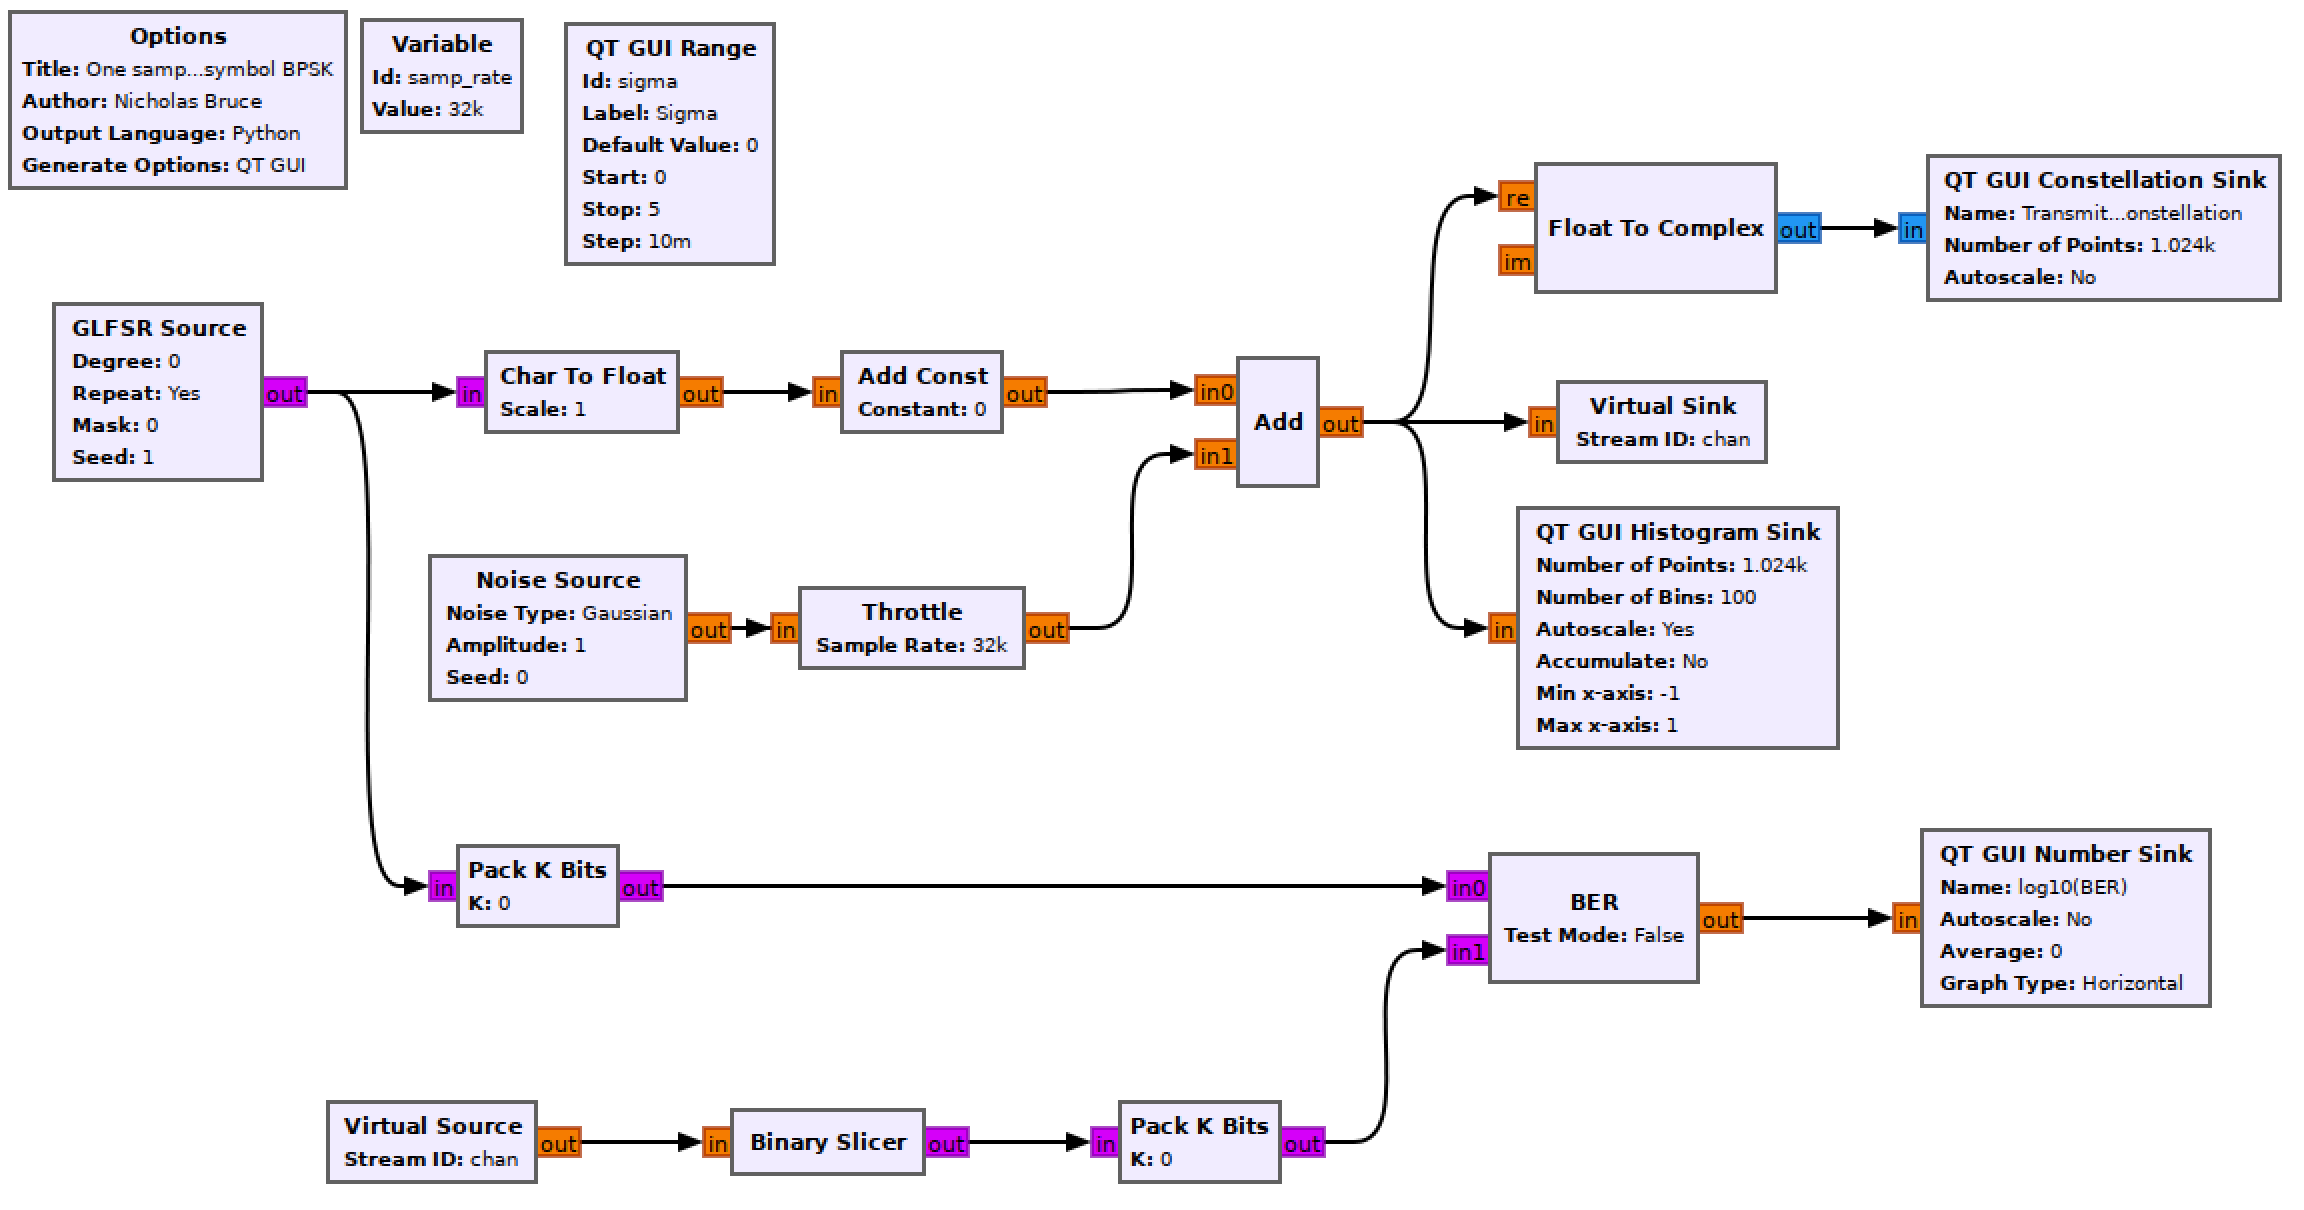
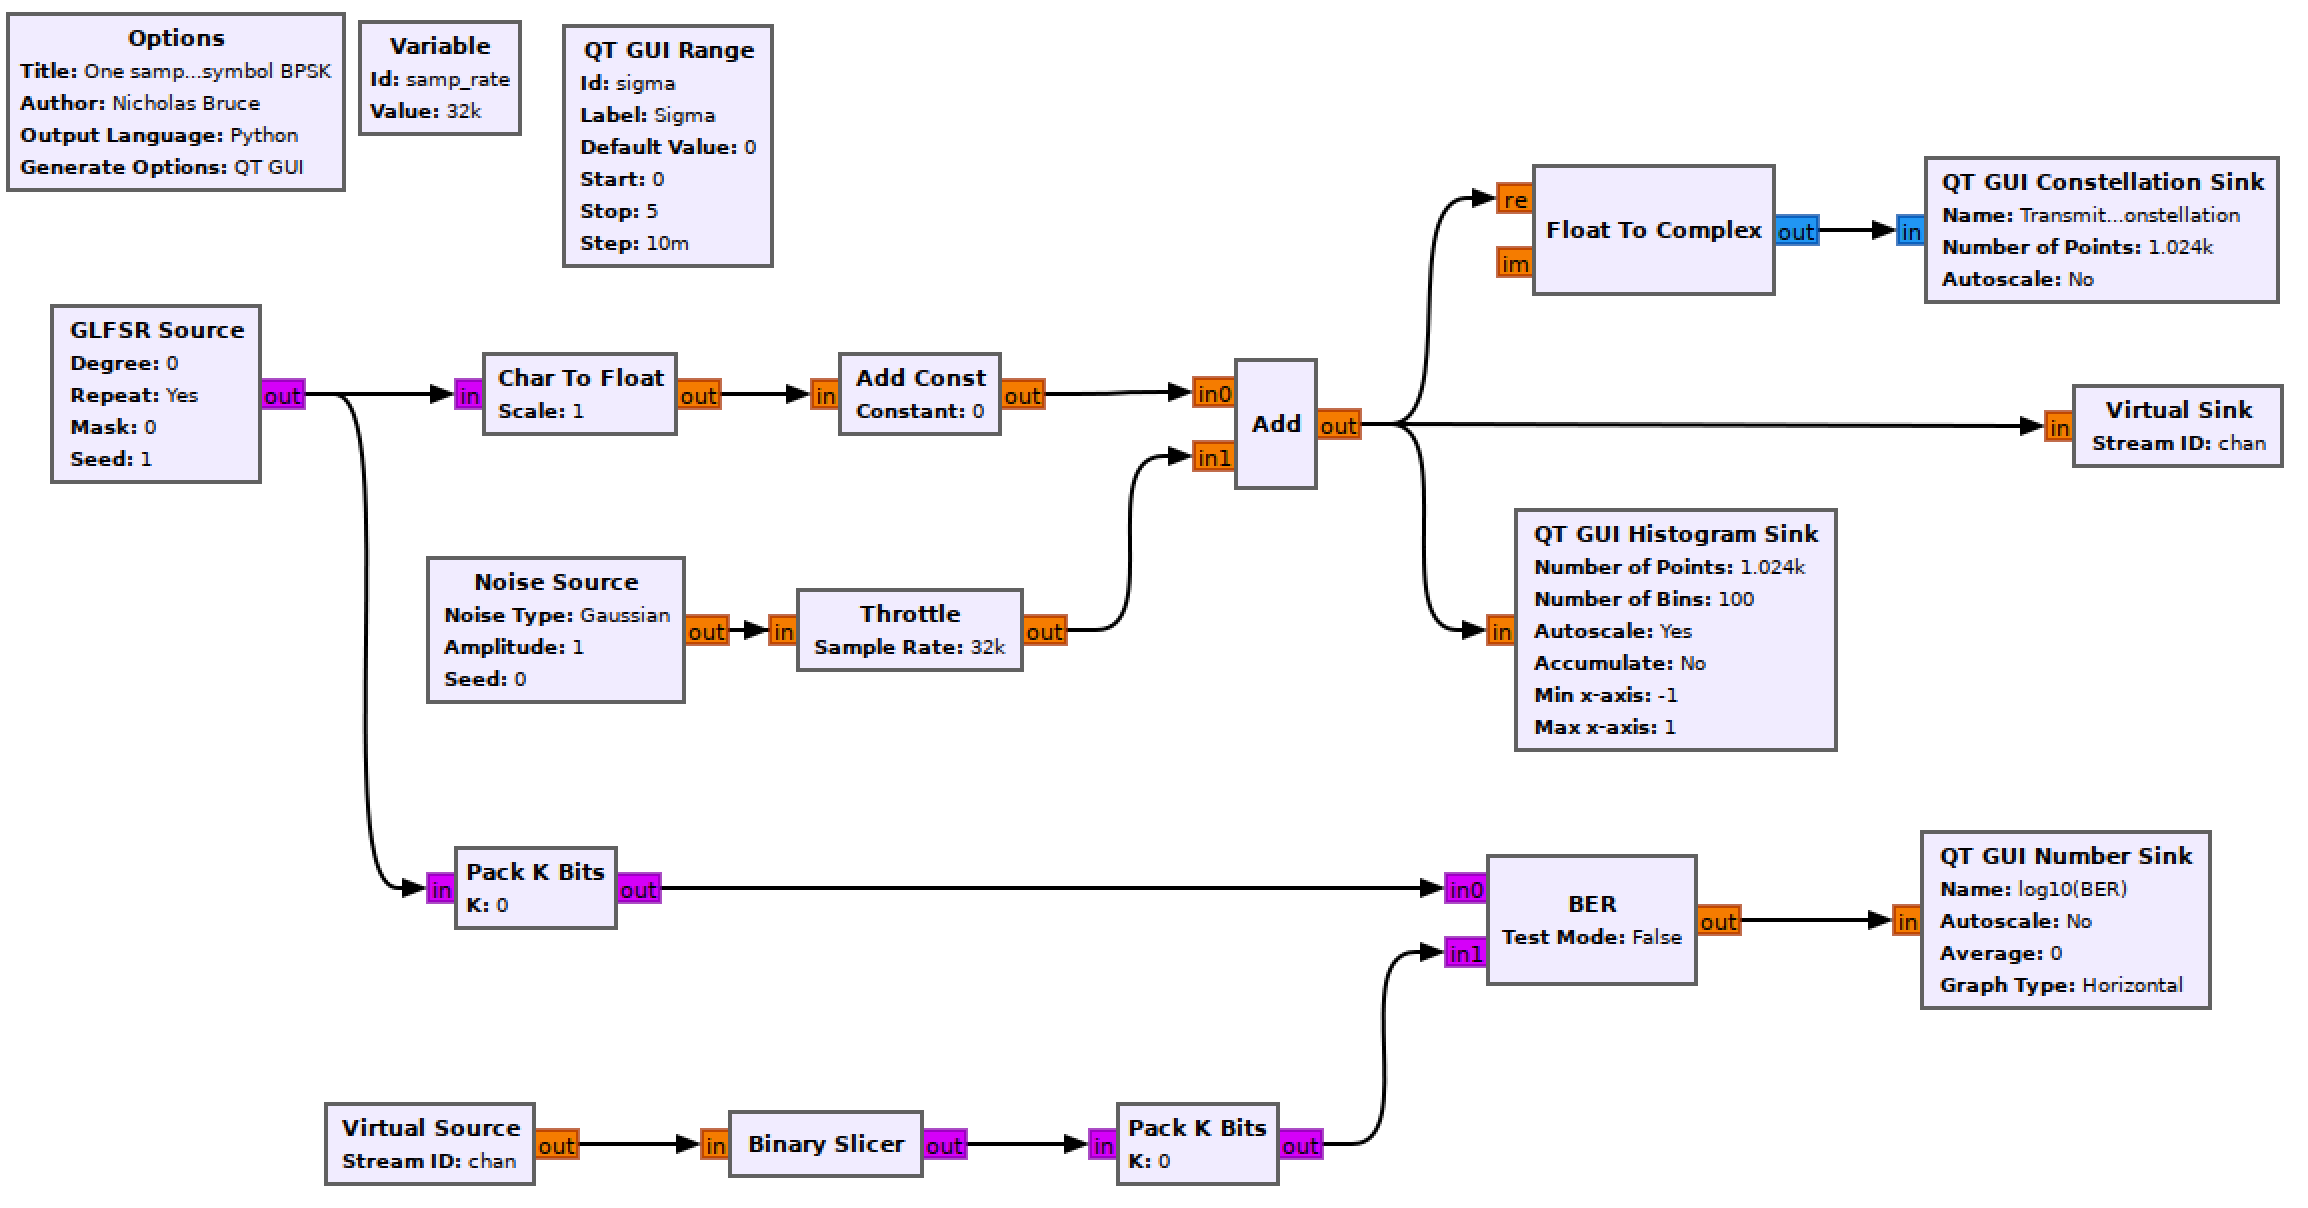
I think wrapped up Lab 1

diff --git a/_ece450/lab1/noise-bpsk-ber.md b/_ece450/lab1/noise-bpsk-ber.md
@@ -25,84 +25,45 @@ For this section, the deliverables are:
 
 ## Building the flowgraph
 
-Construct the following GRC flowgraph.
+Edit the GRC flowgraph from the last part of the lab. Remove the histogram and constellation sink blocks as well as the *QT GUI Range* block.
 
-  ![one-sps-bpsk-blank-flowgraph.png](figures/one-sps-bpsk-blank-flowgraph.png)<br>
-  __*Blank one sample per symbol BPSK flowgraph*__
+Add a *Variable* block and an *Import* block.
 
-### GLFSR Source
+### Variables
 
-This block outputs a pseudo-random bit stream using a shift register as described in the [theory section]({{ site.baseurl }}{% link _ece450/lab1/theory.md %}). Set the Degree of the shift register to 20 (this is the LFSR's $$M$$ value). Set it to repeat.
+Create a variable called `eb_n0_db`. Set it's value to 0.
 
-### Char To Float & Add Const
+### Import
 
-The output of the GLFSR block is a series of 1's and 0's. In order to build a bipolar BPSK system the 0s must become -1s. This can be done using the following equation
-
-$$
-y[n] = 2x[n]-1
-$$
-
-where $$y[n]$$ is the output stream made up of -1s and 1s and $$x[n]$$ is the input stream of 0s and 1s.
-
-Setting the *Scale* parameter of the *Char To Float* block to 0.5 and the *Constant* parameter of the *Add Const* block to -1. You can observe the output of the *Add Const* block using a *QT GUI Constellation Sink* to see that this is now a BPSK signal.
+The argument is `import math`. This will load the [python math library](https://docs.python.org/3/library/math.html). To call the library functions you would precede them with `math`. For example, to take the square root of the number 5 you would write `math.sqrt(5)` wherever you wanted the result.
 
 ### Noise Source
 
-The *Amplitude* variable sets the noise standard deviation, $$\sigma$$. The noise power of pure White Gaussian noise is the variance of the distribution ($$\sigma^2$$) (text section 3.1.3.4). This means you can directly control the noise power by setting this value.
+Remember that the *Amplitude* parameter sets the noise standard deviation, $$\sigma$$ and that the noise power of pure White Gaussian noise is the variance of the distribution ($$\sigma^2$$) (text section 3.1.3.4). Also recall from the [theory section]({{ site.baseurl }}{% link _ece450/lab1/theory.md %}) that $$\frac{E_b}{N_0}$$ = \frac{SNR}{2}$$.
 
-Set the noise *Amplitude* to `sigma`.
+Consider as well that $$\frac{S}{N}=\frac{a_i^2}{\sigma_0^2}$$ (text eqn. 3.45) where $$a_i^2$$ is the signal power and $$\sigma_0^2$$ is the noise power. Combining these two and solving for $$\sigma$$ yields
 
-### QT GUI Range
+$$
+\sigma = \sqrt{\frac{a_i^2}{2*\frac{E_b}{N_0}}}
+$$
 
-This will be used to control the noise power added to the bitstream. Ensure it is labelled appropriately and the __*id*__ is `sigma`. The values should range from 0 (default) to 1 in small increments (use your discretion, and remember you can always change it later).
+where it's important to remember that $$\frac{E_b}{N_0}$$ is in linear units.
 
-### Throttle
+Set the *Amplitude* parameter to an expression equivalent to the this function using the `eb_n0_db` variable you set earlier. You will need to:
 
-When there is no hardware block in a flowgraph (SDR, file reading/writing, network interface) the CPU will run the flowgraph as fast as it can. A throttle block should only be used in the absence of a real rate-limiting block (like here).
+- convert `eb_n0_db` to linear terms,
+- use the `math` library. In particular you will need `math.sqrt()` and `math.pow()` (unless you prefer the python `**` notation),
+- know the power of the signal (it's a binary stream of 1s and -1s)
 
-### QT GUI Constellation Sink & Float To Complex
-
-To validate that the signal is BPSK and to observe the effect of adding noise to it, view its constellation. The constellation only takes a complex input so convert the input.
-
-### QT GUI Histogram Sink
-
-By viewing the histogram of the noisy bits one can intuitively understand how bit errors occur.
-
-- Increase the *Number of Points* to 4096,
-- increase the *Number of Bins* to 1000,
-- set the x-axis limits to [-2, 2].
-
-### Virtual Sink & Virtual source
-
-These blocks can be considered as connected by an "invisible" line on the flowgraph. They can be used for more complex tasks, but here they just keep the flowgraph from being criss-crossed with lines. They are also used to simulate a "transmitter" and "receiver". In this case the *Virtual Sink* transmits the noisy baseband waveform while the *Virtual Source* receives it.
-
-Ensure that the *Stream ID* matches between the two.
-
-### Binary Slicer
-
-This block outputs a 0 for every negative input and a 1 for every positive output.
-
-### Pack K Bits
-
-Set *K* to 8. This is the packet byte size that the later *BER* block requires.
-
-### BER
-
-This computes the error between the two inputs. It outputs to log of the BER, so if it outputs a value of -2, the BER is $$10^-2=0.01$$.
-
-Set *Test Mode* to False, which will mean the block immediately starts outputting results (as opposed to waiting for the error rate to stabilize first). While *Test Mode* is False, the other parameters don't do anything, so you can leave them as they are.
-
-### QT GUI Number Sink
-
-This will draw the output of the BER block on a number line. Set the maximum to 0 (since $$10^0=1$$ meaning that every bit is wrong) and the minumum to -7.
+You can check that you have the correct formula by plugging in some known numbers. For example when the `eb_n0_db` variable is set to 0, $$\sigma$$ should be $$\frac{1}{\sqrt{2}}$$.
 
 ## Run the experiment
 
 1. Run the flowgraph.
-2. Observe the histogram and constellation plots as you increase the sigma slider from 0 to 1 (which is equivalent to changing the noise power ($$\sigma^2$$) from 0 to 1 as well).
-3. Notice that the BER number sink value _increases_ while $$\sigma$$ increases. As the two bits in the histogram overlap, more bit errors occur.
-4. Find the $$\sigma$$ value at which point equally between the gaussian distributions (at 0) is completely flat (you can change histogram parameters and the granularity of the *QT GUI Range* widget to help with this). What is the BER at this point?
+2. For `eb_n0_db` values of 0, 1, ..., 10 record the BER.
 
-{% include alert.html title="Deliverable question 1" class="info" content="What is the significants of the $$\sigma$$ value at which point the gaussians are indistinguishable?"%}
+{% include alert.html title="Note" content="Note you will have to kill the flowgraph each time you desire a new `eb_n0_db` value. Changing it during runtime with a *QT GUI Range* or similar will result in large delays for the BER to stabilize." %}
+
+{% include alert.html title="Deliverable question 3" class="info" content="If you made a BER vs Eb/N0 curve and plotted it on top of a BER vs SNR curve (a plot with two x-axes), would they be the same or would they be offset? If offset, in which direction and by how much? __*This exercise can be done intuitively without plotting the curves or doing any calculations.*__"%}
 
 Review the [section deliverables](#part-3-deliverables) before moving on.

diff --git a/_ece450/lab1/calculating-ber.md b/_ece450/lab1/calculating-ber.md
@@ -1,0 +1,66 @@
+---
+layout: labitem
+title: Part 4 - Calculating BER
+
+permalink: /ece450/lab1/calculating-ber
+course: ece450
+prev: /ece450/lab1/noisy-bpsk-ber
+next: /ece450/lab1/conclusion
+---
+
+## Objectives
+
+You will use the values recorded for the baseband BPSK communication system to plot a $$BER-\frac{E_b}{N_0}$$ curve and compare it with theory.
+
+---
+
+## Part 5 deliverables
+
+For this section, the deliverables are:
+
+- the answer to two deliverable questions,
+- the code used to generate the BER curve (with the dataset hard coded into it),
+- the resulting BER curve as a .PNG image file.
+
+---
+
+## Generating a BER curve
+
+Using the values collected throughout this lab you can now generate a $$BER-\frac{E_b}{N_0}$$ curve.
+
+You can use a programming language of your choice, but python or matlab have some handy tools for this job built in.
+
+Plot three curves on the same axes:
+
+1. BER curve for the theoretical $$BER=\sqrt{2\frac{E_b}{N_0}}$$,
+2. BER curve using the collected BER and Eb/N0 values from earlier in this lab.
+
+### 1. Theory
+
+For generating a simulated curve of the theoretical $$BER-\frac{E_b}{N_0}$$ review [the theory section]({{ site.baseurl }}{% link _ece450/lab1/theory.md %}) of this lab.
+
+For the Q-function, Matlab ships with [`qfunc()`](https://www.mathworks.com/help/comm/ref/qfunc.html) while python has [`norm.sf()`](https://docs.scipy.org/doc/scipy-0.19.1/reference/generated/scipy.stats.norm.html) included in the scipy package.
+
+### 2. Collected BER and set Eb/N0 values
+
+You collected a dataset of BER values for Eb/N0 values of 0, 1, ..., 10 dB. While plotting these remember that the BER values collected from the number sink are log10(BER). So to obtain the BER you will need to raise your collected values, -X by realizing that $$BER = 10^{-X}$$.
+
+### Plotting details
+
+Now that you have the three curves, ensure that the plot has:
+
+- a log scale on the y-axis
+- a linear scale on the x-axis
+- appropriate axes titles
+- a legend (one entry for each of: "Theory", "Simulation")
+
+A sample of what the plot might look like is included below (with all the labelling elements removed).
+
+  ![BER-curve.png](figures/BER-curve.png)<br>
+  __*Sample BER curve*__
+
+{% include alert.html title="Deliverable question 4" class="info" content="Provide insight into your results. What does the BER curve tell you about your communication system?" %}
+
+{% include alert.html title="Deliverable question 5" class="info" content="Relate the BER curve to the histogram you generated earlier in this lab." %}
+
+Review the [section deliverables](#part-4-deliverables) beforing moving on.

diff --git a/_ece450/lab1/theory.md b/_ece450/lab1/theory.md
@@ -31,7 +31,15 @@ $$
 
 where $$SNR=\frac{S}{N}$$ (the signal to noise ratio), $$W$$ is the channel bandwidth and $$R$$ is the bit rate (all terms in the equation are linear). Hence $$\frac{E_b}{N_0}$$ is the signal to noise ratio normalized to the channel and the symbol rate. This can be intuitively understood when reorganized as $$SNR = \frac{E_b}{N_0}\frac{R}{W}$$ since the numerator is the total power of the received signal (energy-per-bit multiplied with the bit rate) while the denominator is the total noise power in the channel (noise power in 1 Hz multiplied with the number of Hz in the channel).
 
-It is shown in the text section 3.2.2 that for a binary signal in a gaussian noise channel, this can be further simplified to $$SNR_{MAX} = \frac{2E_b}{N_0}$$ (text eqn. 3.52).
+It is shown in the text section 3.2.2 that for a one-sample-per-symbol binary signal in a gaussian noise channel, the above equation 3.30 can be simplified to
+
+$$
+\frac{E_b}{N_0}$$ = \frac{SNR}{2}, \text{(rearranged text eqn. 3.52)},
+$$
+
+as $$W=\frac{f_s}{2}$$ and $$R=f_s$$.
+
+{% include alert.html title="Note" content="Notice that all of these equations are in linear units but that BER curves are presented with the $$\frac{E_b}{N_0}$$ values in decibels." %}
 
 We are interested in this because we want to know the probability of receiving the correct bit. Consider the following figure,
 
@@ -40,7 +48,7 @@ We are interested in this because we want to know the probability of receiving t
 
 At the entire symbol duration from $$a_1$$ to $$a_2$$ there is some probability in the tail of these gaussian distrubutions that the wrong signal is received. This area under the tail of a gaussian PDF (probability density function) is characterized by the Q-function (a.k.a. gaussian survival function, a.k.a. complementary error function, a.k.a. co-error function). See text section 3.2.1 for more on this, and text equation 3.4.4 for more on the Q-function.
 
-For BPSK the function relating BER with SNR is,
+For BPSK the function relating BER with $$\frac{E_b}{N_0}$$ is,
 
 $$
 BER = Q\left( \sqrt{2\frac{E_b}{N_0}} \right) \text{all linear terms}

diff --git a/_ece450/lab1/noisy-bpsk-histogram.md b/_ece450/lab1/noisy-bpsk-histogram.md
@@ -18,8 +18,7 @@ You will implement a communications system using baseband BPSK and generate a hi
 
 For this section, the deliverables are:
 
-- the answer to one deliverable question,
-- a dataset for later use in this lab.
+- the answer to two deliverable question,
 
 ---
 
@@ -100,9 +99,12 @@ This will draw the output of the BER block on a number line. Set the maximum to 
 
 1. Run the flowgraph.
 2. Observe the histogram and constellation plots as you increase the sigma slider from 0 to 1 (which is equivalent to changing the noise power ($$\sigma^2$$) from 0 to 1 as well).
-3. Notice that the BER number sink value _increases_ while $$\sigma$$ increases. As the two bits in the histogram overlap, more bit errors occur.
-4. Find the $$\sigma$$ value at which point equally between the gaussian distributions (at 0) is completely flat (you can change histogram parameters and the granularity of the *QT GUI Range* widget to help with this). What is the BER at this point?
+3. Observe the $$log_{10}(BER)$$ value output from the number sink while $$\sigma$$ increases. As the two bits in the histogram overlap, more bit errors occur.
+4. Find the $$\sigma$$ value at which point the gaussian distributions are completely indistinguishable (you can change histogram parameters and the granularity of the *QT GUI Range* widget to help with this).
+   - Stop the flowgraph and set this $$\sigma$$ value as default. Start the flowgraph and check the BER at this point.
 
-{% include alert.html title="Deliverable question 1" class="info" content="What is the significants of the $$\sigma$$ value at which point the gaussians are indistinguishable?"%}
+{% include alert.html title="Deliverable question 1" class="info" content="What is the significance of the $$\sigma$$ value at which point the gaussians are indistinguishable?"%}
+
+{% include alert.html title="Deliverable question 2" class="info" content="What is the maximum BER value for a random binary bitstream made up of an equal number of 1s and 0s? Explain." %}
 
 Review the [section deliverables](#part-2-deliverables) before moving on.

diff --git a/_ece450/lab1/conclusion.md b/_ece450/lab1/conclusion.md
@@ -1,0 +1,27 @@
+---
+layout: labitem
+title: Lab 1 - Conclusion
+
+permalink: /ece450/lab1/conclusion
+course: ece450
+prev: /ece450/lab1/calculating-ber
+next: /ece450/lab2
+---
+
+In this lab, you:
+
+- used GNU Radio to build a baseband BPSK communication system,
+- made a histogram of the noisy received bits and related that the the bit error values,
+- studied the relation between $$\frac{E_b}{N_0}$$ and signal/noise power measurements,
+- recorded BER values for several $$\frac{E_b}{N_0}$$ values,
+- wrote a short script to turn them into a $$BER-\frac{E_b}{N_0}$$ curve.
+
+## Deliverables
+
+In this lab there are the following deliverables:
+
+- a single page of answers to the deliverable questions laid out in the lab. In this lab there are 5 of them. They are all highlighted and labelled with their respective question numbers. Each question (hopefully) required some thought and was answered concisely with 1 to 2 sentences of text and perhaps an accompanying figure.
+- a short code you wrote to generate a $$BER-\frac{E_b}{N_0}$$ curve
+- your final $$BER-\frac{E_b}{N_0}$$R curve figure
+
+Submit these three deliverables to your TA over coursespaces.

diff --git a/_ece450/lab1/introduction.md b/_ece450/lab1/introduction.md
@@ -13,11 +13,15 @@ In this lab, you will use GNU Radio to simulate a digital baseband communication
 
 You will learn about:
 
+- baseband BPSK communication,
+- bit errors,
+- the relation between $$\frac{E_b}{N_0}$$ and signal/noise power measurements,
+
 ## Deliverables
 
 In this lab there are the following deliverables:
 
-- a single page of answers to the deliverable questions laid out in the lab. In this lab there are 6 of them. They are all highlighted and labelled with their respective question numbers. Each question will require some thought and should be answered concisely with 1 to 2 sentences of text and perhaps an accompanying figure.
+- a single page of answers to the deliverable questions laid out in the lab. In this lab there are 5 of them. They are all highlighted and labelled with their respective question numbers. Each question will require some thought and should be answered concisely with 1 to 2 sentences of text and perhaps an accompanying figure.
 - a short code you write to generate a BER versus SNR curve
 - your final BER versus SNR curve figure
 

diff --git a/_ece450/lab2/impulse-lpf-shaping.md b/_ece450/lab2/impulse-lpf-shaping.md
@@ -36,7 +36,7 @@ The `samp_rate` of this flowgraph is 100 kHz and the `symbol_rate` is 1 kHz. Lea
 
 ### Import
 
-The argument is `import math`. This will load the [python math library](https://docs.python.org/3/library/math.html). To call the library functions you would precede them with `math`. For example, to take the square root of the number 5 you would write `math.sqrt(5)` wherever you wanted the result.
+The argument is `import math`. This will load the [python math library](https://docs.python.org/3/library/math.html).
 
 ### QT GUI Range
 
